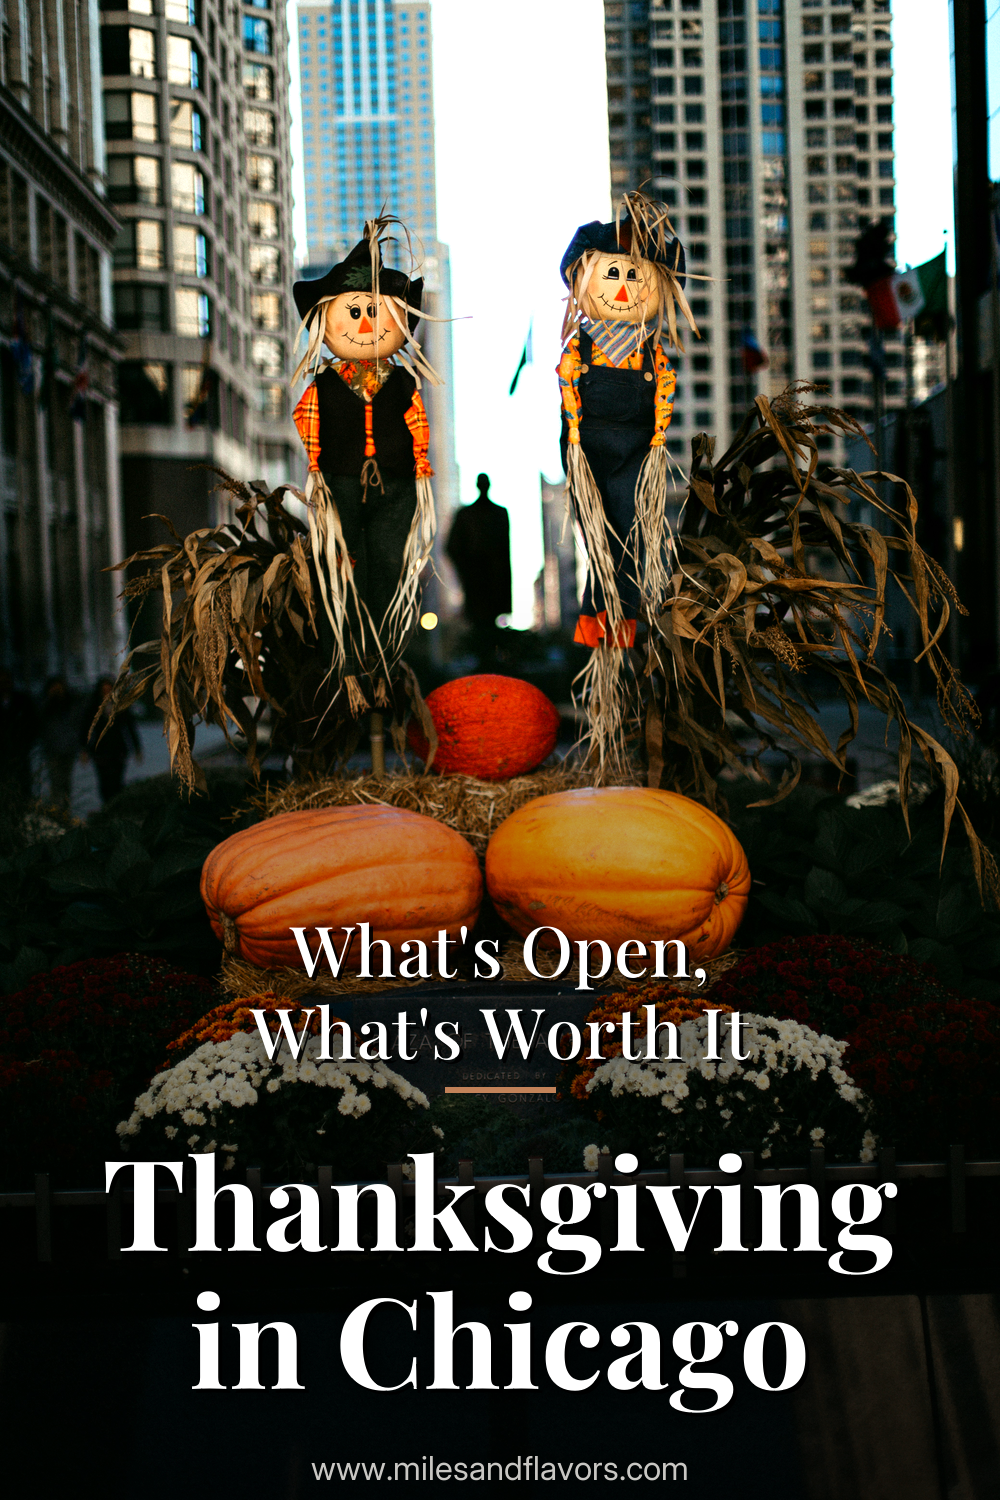
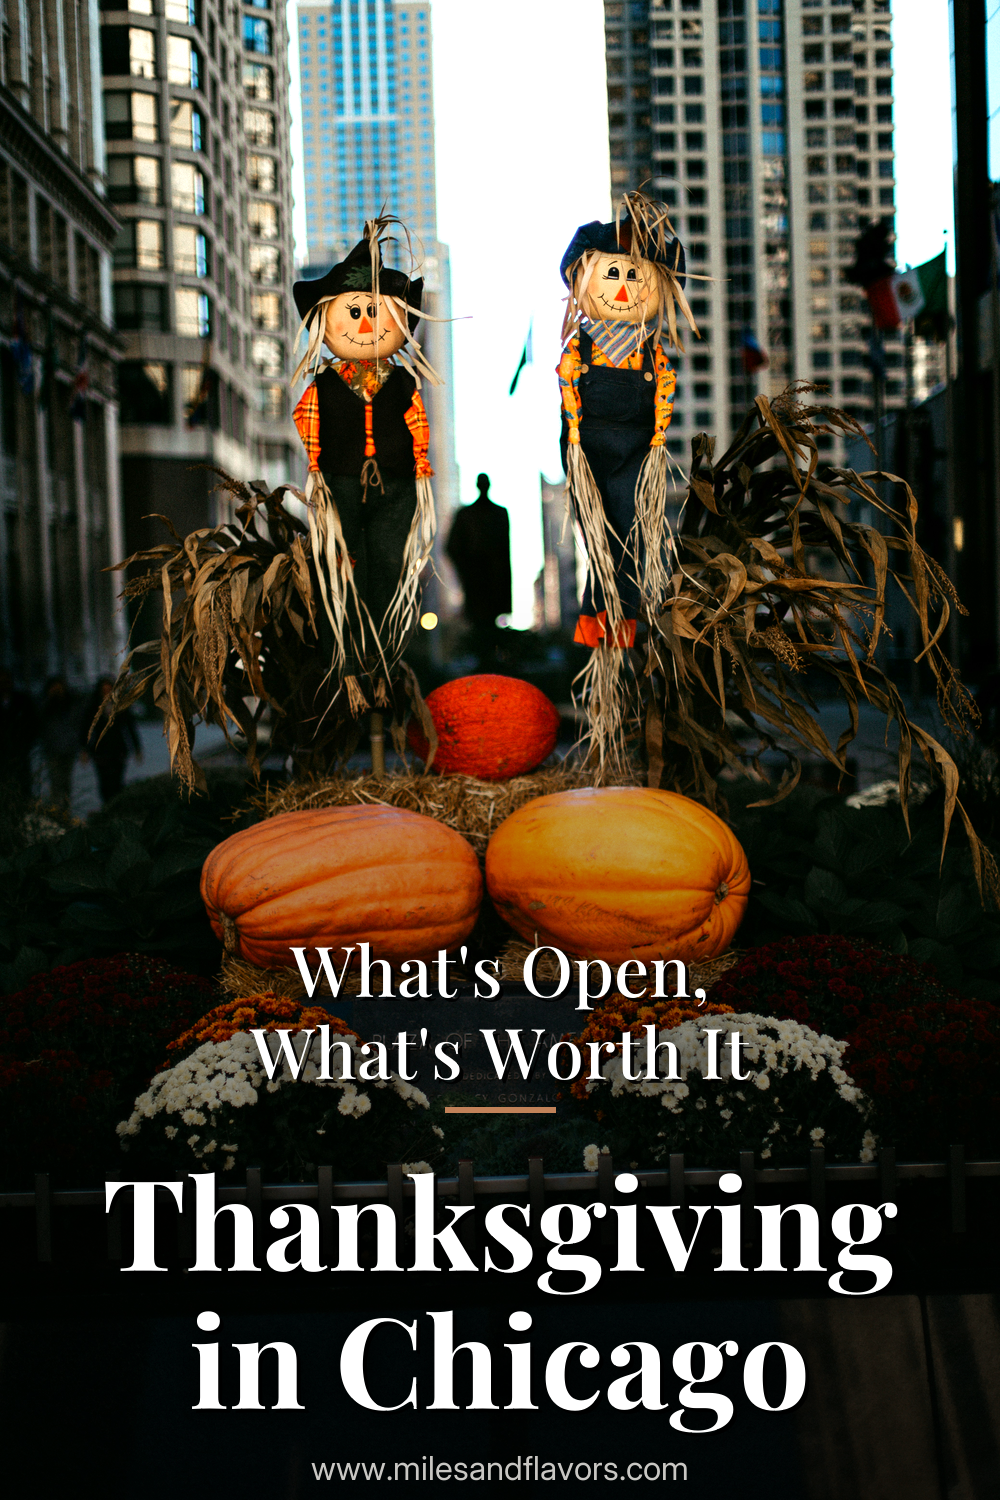
Push bottom-zone text further down (0.91->0.945, range 0.78-0.93->0.82-0.945); move Chicago Bucket List back to top zone
Two specific fixes: Empire State vs Top of the Rock needed the text lower (was leaving too much city visible below), Chicago Bucket List needed to go back to top (bottom was covering too much of the Navy Pier wheel). Re-rendered all 21 pins for the global bottom-position change.

Changed region(s): [[0.093, 0.6133, 0.899, 0.9507], [0.713, 0.6747, 0.744, 0.736], [0.124, 0.828, 0.155, 0.8587]]

diff --git a/render.py b/render.py
@@ -190,7 +190,7 @@ def best_block_bottom(photo_rgb, zone, block_h, default_bottom, allow_escape=Tru
     zone_ranges = {
         "top":    (int(H * 0.30), int(H * 0.52)),
         "middle": (int(H * 0.56), int(H * 0.78)),
-        "bottom": (int(H * 0.78), int(H * 0.93)),
+        "bottom": (int(H * 0.82), int(H * 0.945)),  # 2026-08-18: pushed lower per user request
     }
     lo, hi = zone_ranges.get(zone, zone_ranges["bottom"])
 
@@ -316,7 +316,7 @@ def render_hybrid_pin(bold, light, photos, zone_override=None, overlay_alpha=90,
     elif zone == "middle":
         default_bottom = int(H * 0.67)
     else:
-        default_bottom = int(H * 0.91)
+        default_bottom = int(H * 0.945)  # 2026-08-18: pushed lower (was 0.91) per user request
     block_bottom = best_block_bottom(raw_photo, zone, block_h, default_bottom, allow_escape=allow_escape)
     text_top = block_bottom - block_h
 
